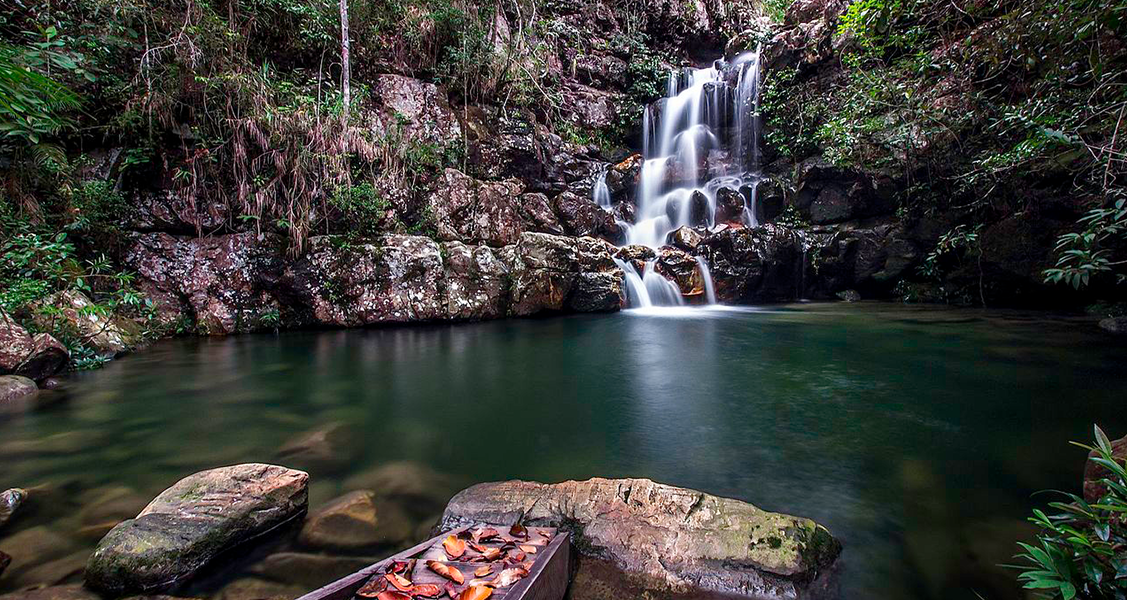
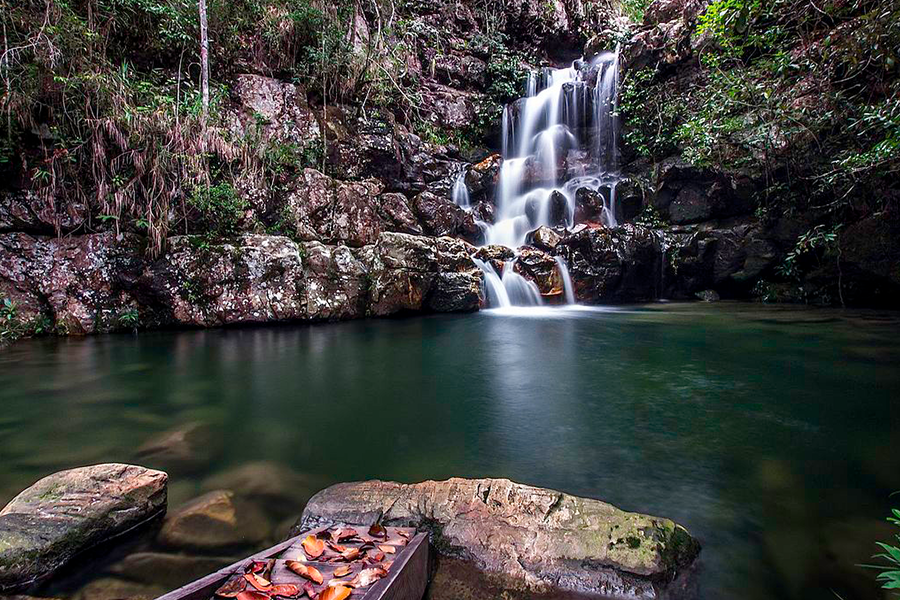
incluso input destino e redimensionamento das imgs

diff --git a/js/app.js b/js/app.js
@@ -13,8 +13,10 @@ let divCaracteres = document.getElementById("numCaracteres");
 //Selecionar checkbox de memorizar cartao
 let cardCheck = document.getElementById('cardcheck')
 //PERFIL
-const perfil = document.getElementById('perfil');
+let perfil = document.getElementById('perfil');
 let userImg = document.getElementById('userImg')
+
+
 
 /* INICIO: ATUALIZEI EM 07/09 - FELIPE */
 //propriedade para executar quaisquer funções ao carregar a página
@@ -138,6 +140,7 @@ perfil.addEventListener('change', event => {
     let element = event.target.value
 
     if (element == 'outro') {
+
         let novaUrl = document.getElementById('urlUser')
         let label = document.createElement('label')
         let labelText = document.createTextNode("URL")
@@ -148,12 +151,36 @@ perfil.addEventListener('change', event => {
         novoPerfil.setAttribute('placeholder', 'Informe a url da sua imagem')
         novaUrl.appendChild(label)
         novaUrl.appendChild(novoPerfil)
+         
 
         /* Escutador de eventos que define imagem do preview ao tirar foco do campo de url */
         /* Ajustado para quando o usuario cola a url com teclado ou mouse */
         novoPerfil.addEventListener( 'focusout', _ => {
             userImg.setAttribute("src", `${novoPerfil.value}`)
         })
+
+        
+        // Dâmares - input para informar o destino - início 09/09
+        // captura a div no html que conterá o input para nome do destino
+        let localUser = document.getElementById('localUser')
+
+        // cria label para input do destino
+        let labelDestino = document.createElement('label')
+        let labelText2 = document.createTextNode("Destino")
+        labelDestino.append(labelText2)
+
+        // criar input para digitar o nome do destino
+        let destino = document.createElement('input')
+        destino.setAttribute('type', 'text')
+        destino.setAttribute('placeholder', 'Digite o nome do destino')
+        
+        localUser.appendChild(labelDestino)
+        localUser.appendChild(destino)
+
+        //O destino digitado é armazenado na varíavel perfil
+        perfil = destino;
+        // Fim - criação do input para digitar nome do destino - Dâmares - 09/09
+
     }
     else if (element != '') {
         userImg.src = `../assets/${element}.jpg`
@@ -203,6 +230,7 @@ botaoEnviar.addEventListener('click', function(event){
     //zerando o contador do textarea
     comentario.value = "";
     divCaracteres.innerHTML = comentario.value.length + "/" + 150;
+
     //FIM: ATUALIZEI EM 08/09 - DUYLLYAN
 })
 

diff --git a/css/style.css b/css/style.css
@@ -52,7 +52,6 @@ select {
   font-size: 1.5rem;
   background-color: var(--darkBlue);
   color: var(--salmon);
-  /* DAQUI P/ BAIXO ACRESCENTEI EM 05/09 - DÃMARES */
   border: none;
   border-bottom: 0.1rem solid var(--lightPink);
   outline: none;
@@ -79,7 +78,7 @@ textarea {
   display: flex;
   justify-content: space-between;
   width: 100%;
-  margin: 5rem 0;
+  margin: 0 0 3rem;
 }
 
 .memorize input {
@@ -119,19 +118,17 @@ h3 {
 /* AREA DO PERFIL DA VIAGEM */
 /* TODO: DECIDIR O TAMANHO DA IMG */
 .preview {
-  border: solid 0.2rem var(--lightPink);
   width: 100%;
-  height: 30rem;
-  /* desabilitei essa configuração abaixo em px pq estava fazendo a div ficar fora de enquadramento
-    na página e coloquei em porcentagem - Dâmares 05/09 */
-  /* width: 500px;*/
+  margin: 1rem 0;
+
 }
 
 #userImg {
+  border: solid 0.2rem var(--lightPink);
   width: 100%;
-  height: 100%;
-  /* object-fit: cover; */
-  /* overflow: hidden; */
+ 
+  /* object-fit: cover;  */
+  /* overflow: hidden;  */
 }
 
 /* ACRESCENTEI EM 05/09 - DÃMARES */

diff --git a/html/index.html b/html/index.html
@@ -51,7 +51,11 @@
                     </select>
                 </div>
 
+
                 <div id="urlUser"></div>
+
+                <!-- div com o input para informar o nome do destino -->
+                <div id="localUser"></div>
 
                 <!--div imagem-->
                 <div class="preview">
